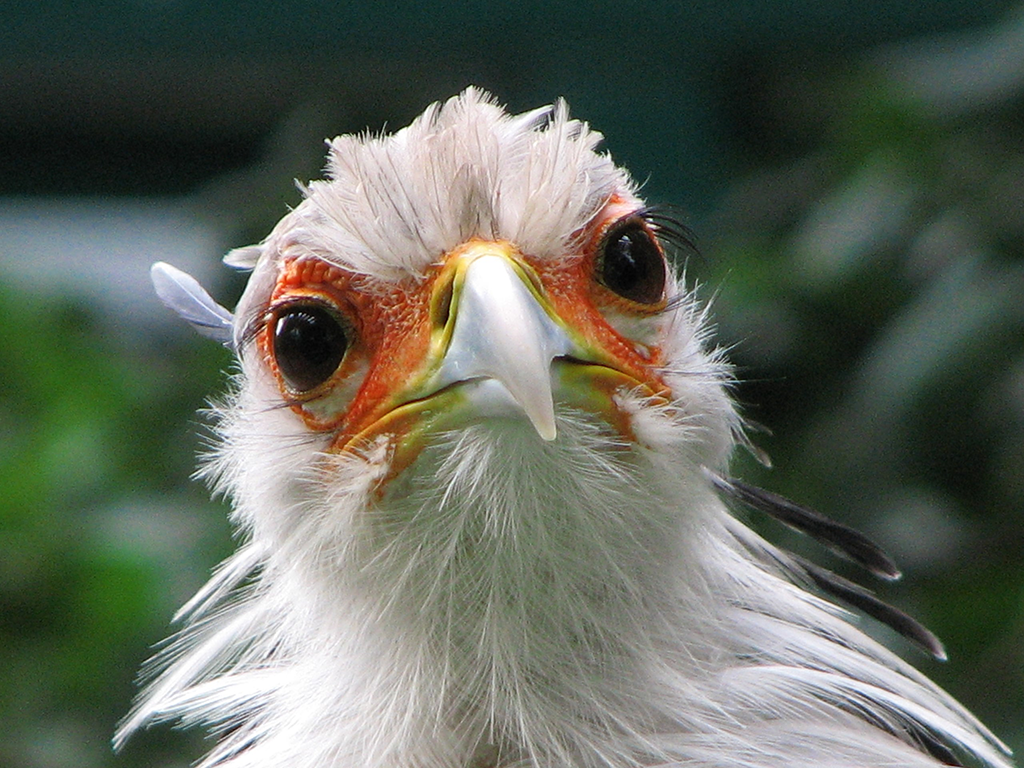
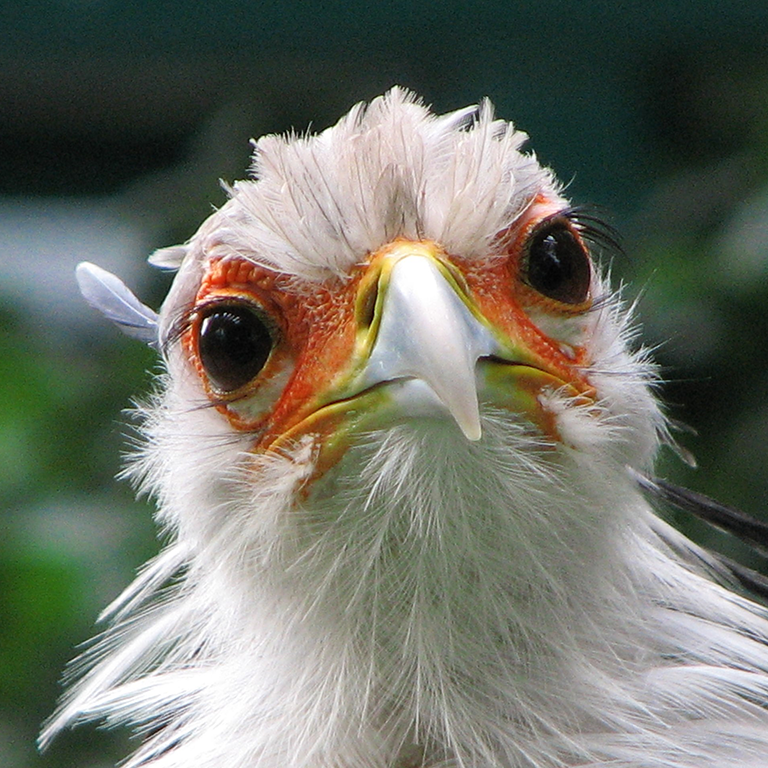
Made all images cropped.

diff --git a/samples.py b/samples.py
@@ -6,7 +6,7 @@ import numpy as np
 
 def load_sample(name, rescale=True, crop=True):
     base_path = os.path.abspath(os.path.dirname(__file__))
-    path = Path(base_path) / 'img' / (name + ('_crop' if crop else '') + '.png')
+    path = Path(base_path) / 'img' / (name + '.png')
     image = Image.open(path)
     image = np.asarray(image)
 
